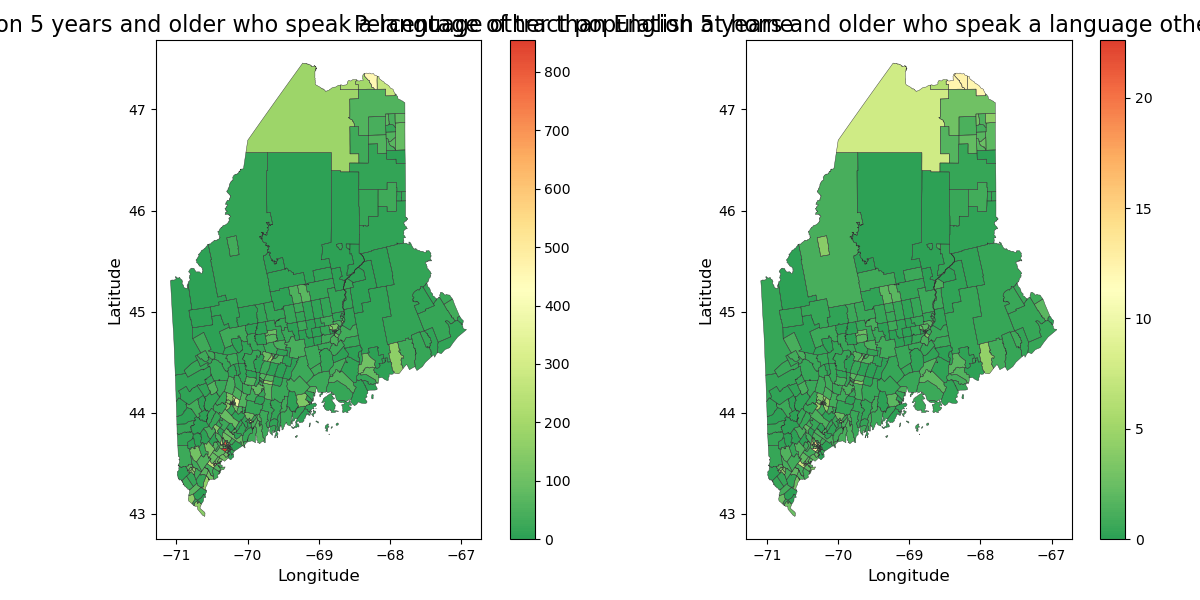
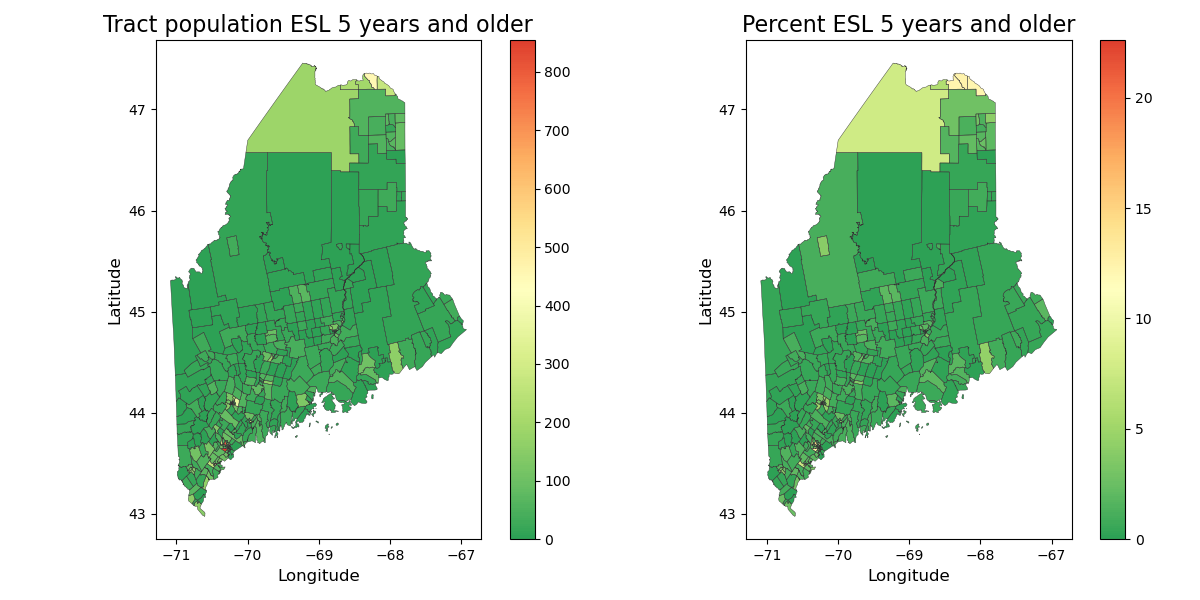
Fixed illegible figure issue

Changed region(s): [[0.0, 0.03, 1.0, 0.06]]

diff --git a/src/make_plots.py b/src/make_plots.py
@@ -18,7 +18,7 @@ plot_list = [
     ["no_bb_or_computer_pop", "Tract household population w/o Broadband or Computers", "pct_no_bb_or_computer_pop", "Percent Population w/o Broadband or Computers", "Lack Broadband or Computers"],
     ["minority_pop", "Tract population of minorities", "pct_minority_pop", "Percent Minority Populations", "Minorities"],
     ["rural_pop", "Tract population living in rural areas", "pct_rural_pop", "Percent Rural Populations", "People in Rural Areas"],
-    ["lang_pop", "Tract population 5 years and older who speak a language other than English at home", "pct_lang_pop", "Percentage of tract population 5 years and older who speak a language other than English at home", "Non-native English Speakers"]
+    ["lang_pop", "Tract population ESL 5 years and older", "pct_lang_pop", "Percent ESL 5 years and older", "Non-native English Speakers"]
 ]
 
 def make_plot(gpd_obj, plot_obj):
